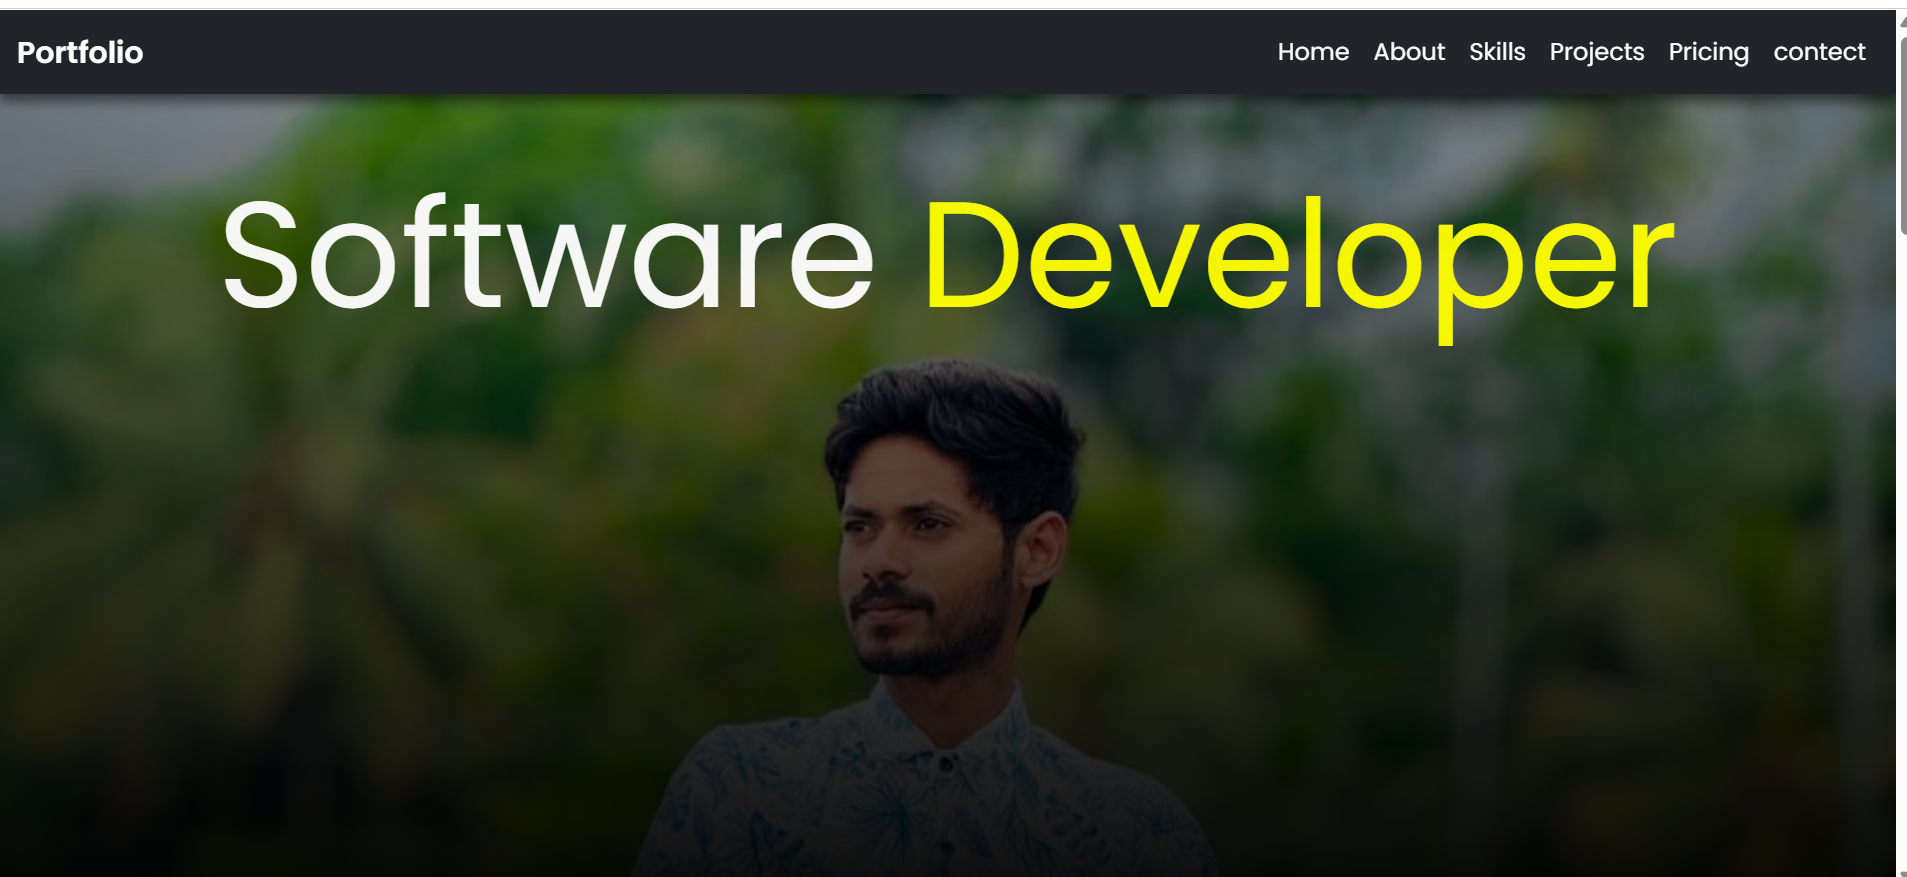
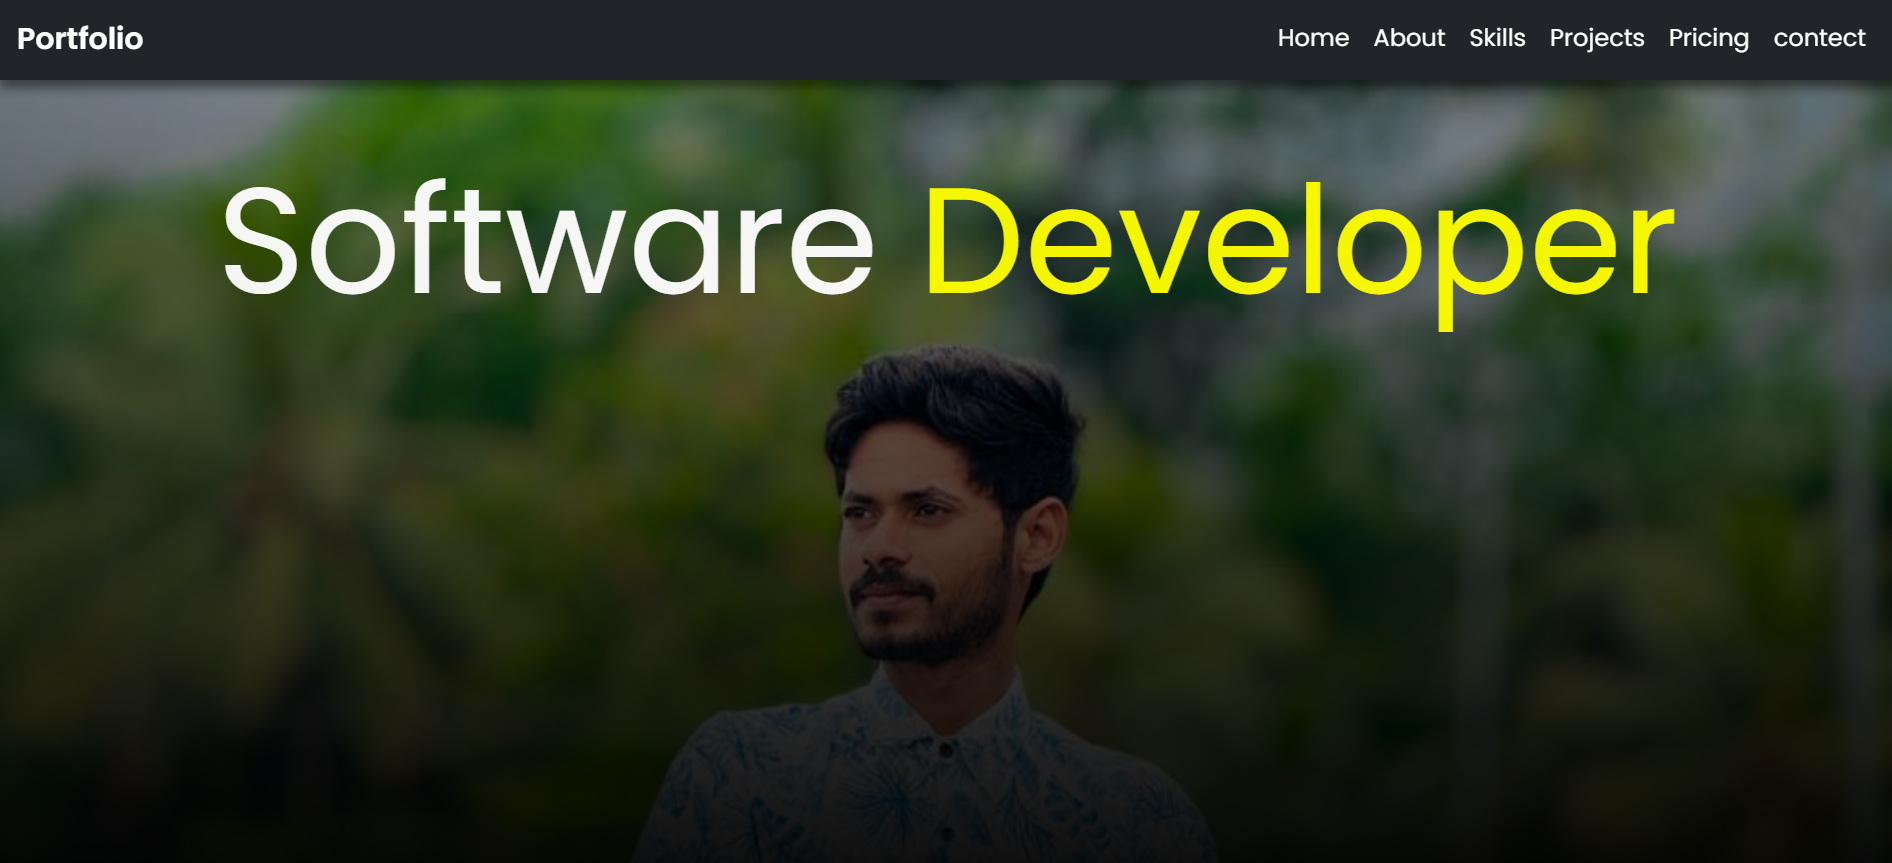
modified my_portfolio.html and style.css

diff --git a/my_portfolio/my_portfolio.html b/my_portfolio/my_portfolio.html
@@ -36,7 +36,7 @@
             <a class="nav-link" href="#skills">Skills</a>
           </li>
           <li class="nav-item">
-            <a class="nav-link" href="#">Projects</a>
+            <a class="nav-link" href="#projects">Projects</a>
           </li>
           <li class="nav-item">
             <a class="nav-link" href="#">Pricing</a>
@@ -45,7 +45,6 @@
             <a class="nav-link" href="#">contect</a>
           </li>
         </ul>
-
       </div>
     </div>
   </nav>
@@ -134,7 +133,41 @@
   </section>
 
   <!-- Project Section -->
-   
+   <section id="projects">
+    <div id="carouselExampleIndicators" class="carousel slide">
+  <div class="carousel-indicators">
+    <button type="button" data-bs-target="#carouselExampleIndicators" data-bs-slide-to="0" class="active" aria-current="true" aria-label="Slide 1"></button>
+    <button type="button" data-bs-target="#carouselExampleIndicators" data-bs-slide-to="1" aria-label="Slide 2"></button>
+    <button type="button" data-bs-target="#carouselExampleIndicators" data-bs-slide-to="2" aria-label="Slide 3"></button>
+  </div>
+  <div class="carousel-inner">
+    <div class="carousel-item active">
+      <img src="./About/project file/Ecommerce website img.png" class="d-block w-100" alt="Ecommerce website img">
+    </div>
+    <div class="carousel-item">
+      <img src="./About/project file/portfolio project img.png" class="d-block w-100" alt="portfolio project img">
+    </div>
+    <div class="carousel-item">
+      <img src="./About/project file/Responsive website img.png" class="d-block w-100" alt="Responsive website img.png">
+    </div>
+  </div>
+  <button class="carousel-control-prev" type="button" data-bs-target="#carouselExampleIndicators" data-bs-slide="prev">
+    <span class="carousel-control-prev-icon" aria-hidden="true"></span>
+    <span class="visually-hidden">Previous</span>
+  </button>
+  <button class="carousel-control-next" type="button" data-bs-target="#carouselExampleIndicators" data-bs-slide="next">
+    <span class="carousel-control-next-icon" aria-hidden="true"></span>
+    <span class="visually-hidden">Next</span>
+  </button>
+</div>
+   </section>
+
+   <!-- Pricing Section -->
+    <section id="pricing">
+      <div>
+
+      </div>
+    </section>
 
 
   <script src="https://cdn.jsdelivr.net/npm/bootstrap@5.3.8/dist/js/bootstrap.bundle.min.js"

diff --git a/my_portfolio/style.css b/my_portfolio/style.css
@@ -212,3 +212,34 @@ label{
 .progress:hover{
     box-shadow: 2px 4px 5px white, -2px -2px 5px gray;
 }
+
+/* Project Section */
+
+
+#projects{
+    display: flex;
+    justify-content: center;
+    align-items: center;
+    padding-top: 3%;
+    background: linear-gradient(75deg,skyblue,violet);
+}
+.carousel{
+    width: 80%;
+    height: 80vh;
+    box-shadow: 10px 20px 10px rgba(0, 0, 0, .4);
+}
+.carousel-item{
+    width: 100%;
+    height: 80vh;
+}
+@media screen and (max-width:576px) {
+    .carousel{
+        width: 80%;
+        height: 29vh;
+        box-shadow: 10px 20px 10px rgba(0, 0, 0, .4);
+    }
+    .carousel-item{
+    width: 100%;
+    height: 50vh;
+}
+}
